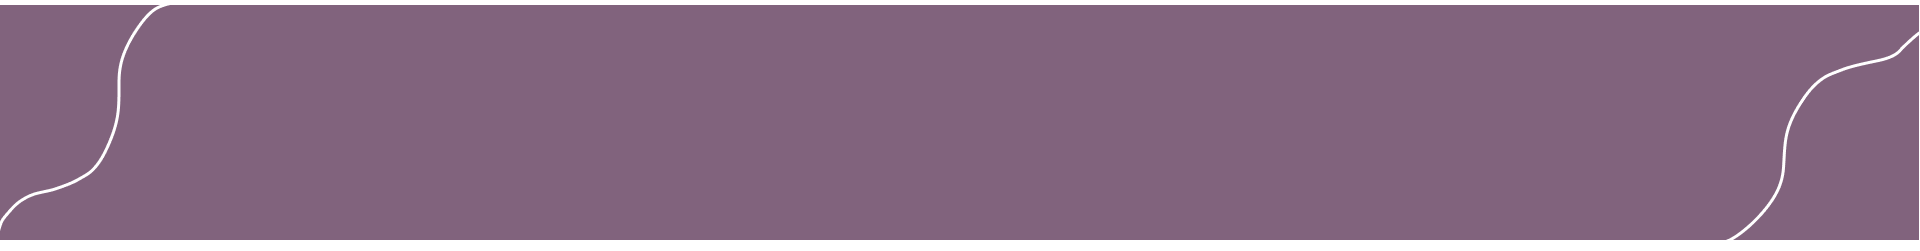
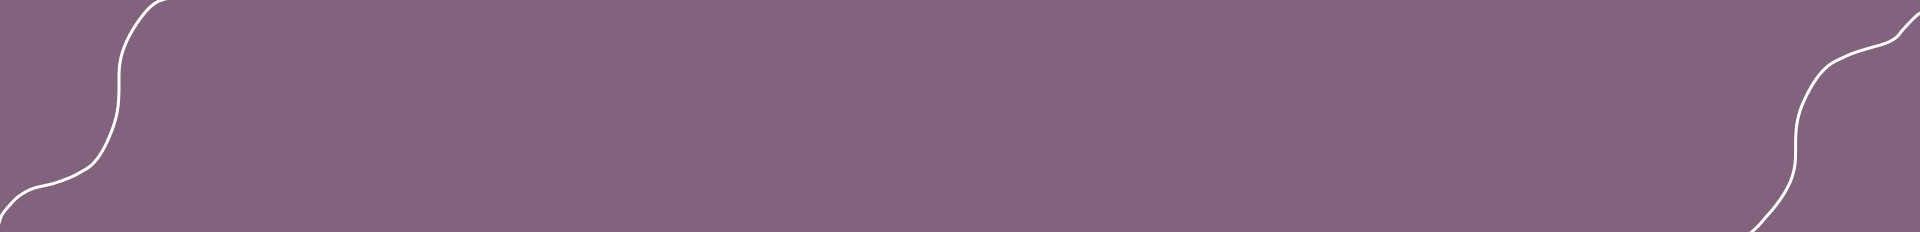
Add files via upload

diff --git a/Диплом/index.html b/Диплом/index.html
@@ -12,18 +12,18 @@
         <div class="fon"></div>
         <div class="block-menu">
             <div class="logotip">
-                <a href="#"><img class="logo" src="img/logo.png" alt="Логотип"></a>
+                <a href="index.html"><img class="logo" src="img/logo.png" alt="Логотип"></a>
             </div>
             <div class="menu-left">
-                <a class="menu katalog" href="#">КАТАЛОГ</a>
+                <a class="menu katalog" href="katalog.html">КАТАЛОГ</a>
                 <a class="menu about" href="#">О МАГАЗИНЕ</a>
                 <a class="menu contacts" href="#">КОНТАКТЫ</a>
-                <a class="menu reviews" href="#">ОТЗЫВЫ</a>
+                <a class="menu reviews" href="review.html">ОТЗЫВЫ</a>
             </div>
             <div class="menu-right">
                 <a class="search" href="#"><img class="" src="img/search.png"></a>
-                <a class="cart" href="#"><img class="" src="img/cart.png"></a>
-                <a class="account" href="#"><img class="" src="img/account.png"></a>
+                <a class="cart" href="cart.html"><img class="" src="img/cart.png"></a>
+                <a class="account" href="account.h"><img class="" src="img/account.png"></a>
             </div>
         </div>
         <div class="offer">
@@ -31,6 +31,7 @@
             <p class="offer_text_2">Радуйте близких по любому поводу</p>
         </div>
         <div class="btn_1"><button class="btn_catalog">В КАТАЛОГ</button></div>
+    </div>
 </header>
 
 <body>
@@ -49,11 +50,50 @@
     <div class="discount">
         <div class="discount_text">
             <p class="discount_text_1">Подпишись на нашу группу в ВК и получи</p>
-              <div class="percent"><p class="text_percent">10%</p></div> 
+            <img src="img/ten.png" alt="скидка 10%">
             <p class="discount_text_2">скидки на первый заказ</p>
         </div>
-        <div class="discount_btn">
-            <a class="discount_a" href="https://vk.com/fiowers32">ПОДПИСАТЬСЯ</a>
+        <div class="btn_discount">
+            <button class="discount_btn"><a class="discount_a" href="https://vk.com/fiowers32">ПОДПИСАТЬСЯ</a></button>
+        </div>
+    </div>
+
+    <div>
+        <h1 class="heading">ПОПУЛЯРНОЕ</h1>
+        <div class="content_popular">
+            <div class="position_1">
+                <img src="img/1_position.png" alt="">
+                <div class="popular_text">
+                    <p class="name_bouquet">Букет из гипсофилы</p>
+                    <p class="price">1 150 ₽</p>
+                </div>
+                <div class="popular_text">
+                    <a class="more">ПОДРОБНЕЕ</a>
+                    <button class="popular_card">В КОРЗИНУ</button>
+                </div>
+            </div>
+            <div class="position_2">
+                <img src="img/2_position.png" alt="">
+                <div class="popular_text">
+                    <p class="name_bouquet">Букет из гипсофилы</p>
+                    <p class="price">1 150 ₽</p>
+                </div>
+                <div class="popular_text">
+                    <a class="more">ПОДРОБНЕЕ</a>
+                    <button class="popular_card">В КОРЗИНУ</button>
+                </div>
+            </div>
+            <div class="position_3">
+                <img src="img/3_position.png" alt="">
+                <div class="popular_text">
+                    <p class="name_bouquet">Букет из гипсофилы</p>
+                    <p class="price">1 150 ₽</p>
+                </div>
+                <div class="popular_text">
+                    <a class="more">ПОДРОБНЕЕ</a>
+                    <button class="popular_card">В КОРЗИНУ</button>
+                </div>
+            </div>
         </div>
     </div>
 </body>

diff --git a/Диплом/styles.css b/Диплом/styles.css
@@ -60,21 +60,23 @@ a {
 
 
 .container {
+    max-width: 1920px;
     position: relative;
-    margin-right: 50px;
-    margin-left: 86px;
+
 }
 
 .fon {
     position: absolute;
-    width: 920px;
+    width: 925px;
     height: 875px;
     background-image: url('img/fon.png');
     background-repeat: no-repeat;
-    translate: 904px;
+    translate: 930px;
 }
 
 .block-menu {
+    margin-right: 50px;
+    margin-left: 50px;
     position: relative;
     display: flex;
     justify-content: space-between;
@@ -95,6 +97,7 @@ a {
 .offer {
     margin-top: 200px;
     width: 700px;
+    margin-left: 50px;
 }
 
 .offer_text_1 {
@@ -172,69 +175,74 @@ a {
     align-items: center;
 }
 
-.advantages_text{
+.advantages_text {
     padding-left: 10px;
 }
 
-.discount{
+.discount {
+    max-width: 1920px;
     margin-top: 50px;
     background-image: url('img/fon_discount.png');
     background-repeat: no-repeat;
-    height: 242px;
-    padding-left: 180px;
-    padding-right: 180px;
+    height: 238px;
     padding-top: 30px;
-    font-family: 'Noto_Serif_Regular';
+    font-family: 'Noto_Serif_Light';
 }
 
-.discount_text{
+.discount_text {
     display: flex;
     justify-content: center;
+    margin-top: -20px;
 }
 
 .discount_text_1,
-.discount_text_2{
+.discount_text_2 {
     font-weight: 400;
-font-size: 40px;
-color: #fff;
+    font-size: 40px;
+    color: #fff;
+    margin-top: 25px;
 }
 
-.percent{
-    /* background-color: #fff;
-    border-radius:  100%;
-    font-weight: 400;
+
+
+.percent {
     font-size: 36px;
     text-align: center;
-    color: #7d6876;  */
-    width:75px;
-    height:120px;
-    border-radius:100%;
-    background:#ffffff;
-    -webkit-transform: rotate(50deg);
+    color: #81637D;
 }
 
-.text_percent{
-    font-size: 36px;
-text-align: center;
-color: #7d6876;
+.btn_discount {
+    justify-content: center;
+    display: flex;
 }
 
-.discount_btn{
+.discount_btn {
     background-color: #fff;
-    border-radius:  30px;
+    border: 0;
+    border-radius: 30px;
     width: 395px;
     height: 51px;
     text-align: center;
+    margin-top: 10px;
+
 }
 
-.discount_a{
+.discount_a {
     text-decoration: none;
-    color: #7d6876; 
+    color: #81637D;
     font-family: 'Roboto-Regular';
     font-weight: 400;
     font-size: 24px;
+
 }
 
-.discount_a:hover{
-    color: #2c1123; 
+.discount_a:hover {
+    color: #2c1123;
+}
+
+
+
+.content_popular{
+    justify-content: center;
+    display: flex;
 }
